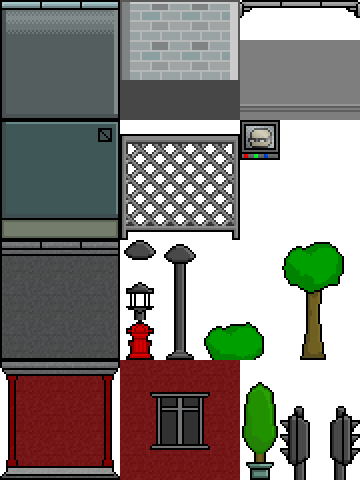
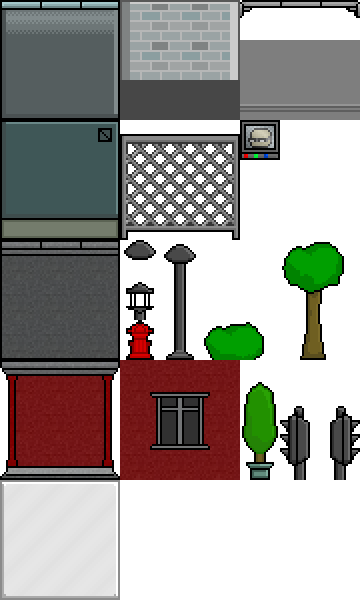
Glass tile added.

diff --git a/Level Editor/editor.html b/Level Editor/editor.html
@@ -320,7 +320,7 @@ window.onload = function() {
 
 </head>
 <body>
-<canvas id = "canvas" width = "800" height = "560" style = "border:solid black;">
+  <canvas id = "canvas" width = "800" height = "600" style = "border:solid black;">
 </canvas>
 <img id = "tiles" src = "tiles_concept_01.png"><br>
 Key 1 for BackGround<br>
